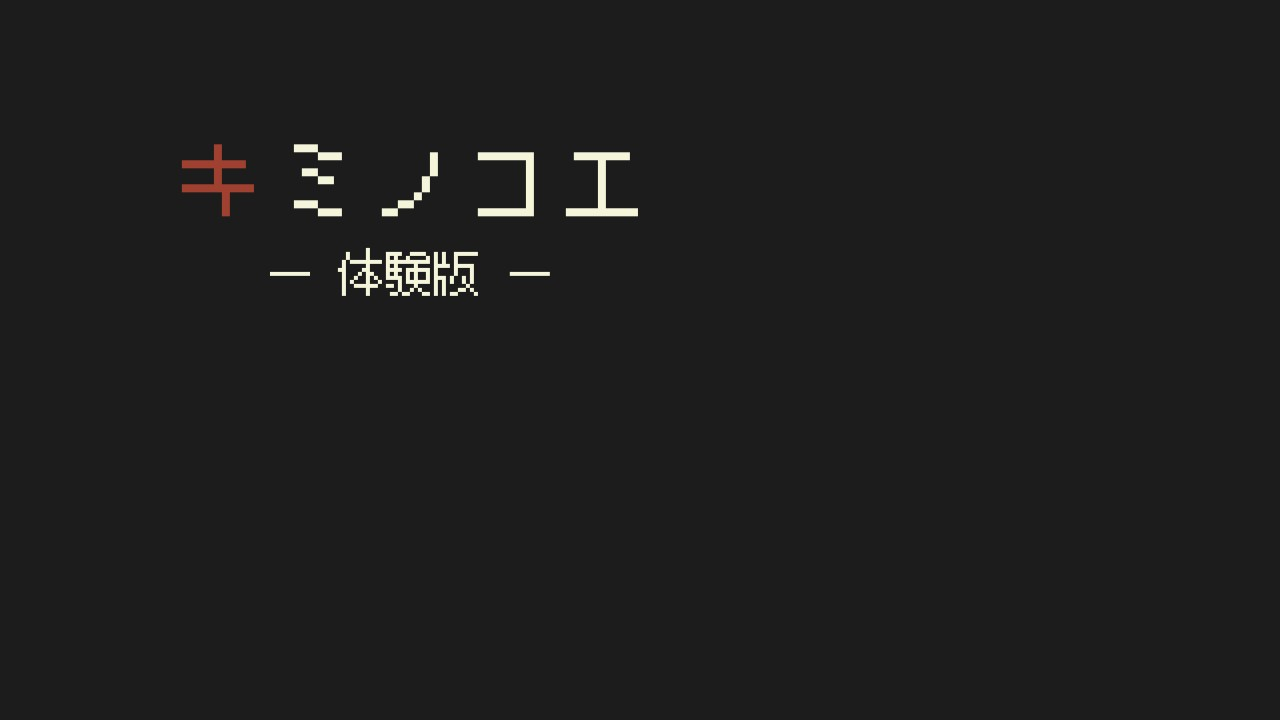
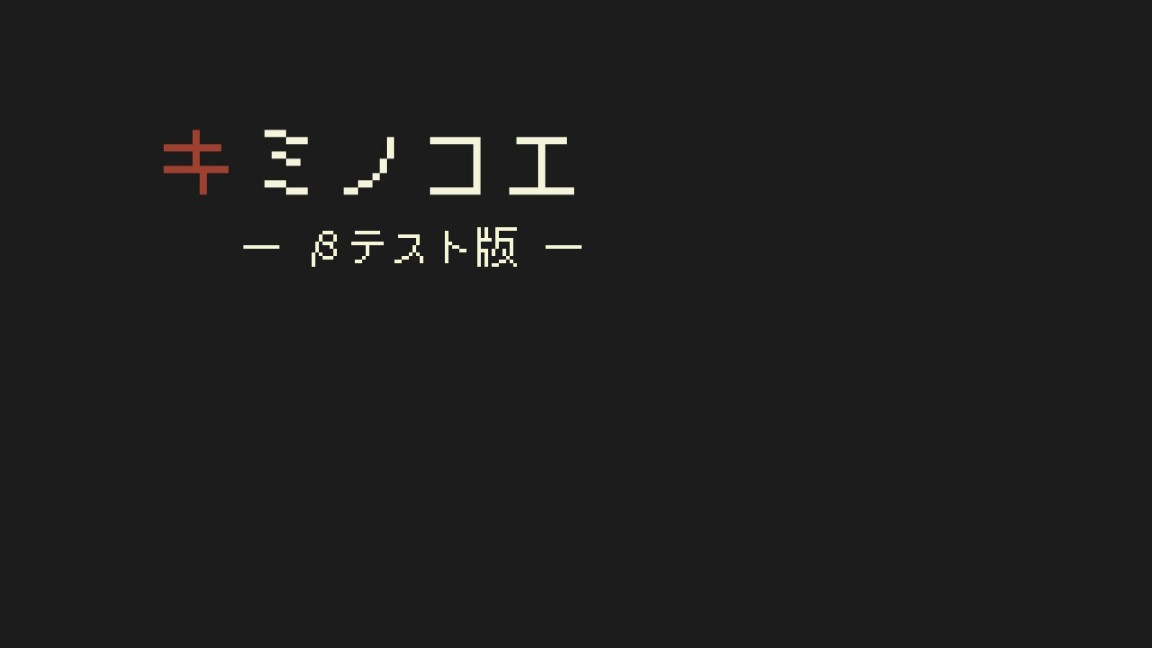
📝 正式リリース版に向けたトロフィー仕様のドキュメント化

Changed region(s): [[0.2188, 0.3395, 0.5, 0.4321]]

diff --git a/documents/dev/trophy_system.md b/documents/dev/trophy_system.md
@@ -67,16 +67,22 @@
 | ふたこじぞう | 全地蔵発見（北・東・南・西の4箇所） | 「古くから村を守ってきた存在」 | 「村の至る所に...」 | コレクション要素 |
 | 焚き場 | 西→南訪問 | 「忘れ去られたしきたり」 | 「禁じられた道の先に...」 | JMR編への伏線 |
 | 童歌 | 童歌をスキップせずに最後まで聴く | 「祈りは忘れられ、調べだけが継ぐ」 | 「立ち止まって耳を傾けて」 | 早歩き中は取得不可 |
-| 地蔵焚の旅人 | 下記条件をすべて満たした状態で童歌を聴く | 「体験版でそこまでする？」 | 「すべてを巡り、耳を澄ませたとき」 | **体験版限定・やり込み** |
+| 地蔵焚の旅人 / **転生する勇気** | 下記参照（同一スロット・排他） | 「体験版でそこまでする？」 / 「記憶を消してプレイしたいと言われてみたい」 | 「すべてを巡り、耳を澄ませたとき」 / 「すべてを忘れて、もう一度」 | **同一スロット。どちらか一方のみ取得可** |
 | 調査隊結成？ | 12日お寺ルート（opt_1012_d_temple）完了（選択肢はふたこじぞう+焚き場取得で出現） | 「オカルト好きなお寺さん」 | （未定） | **製品版のみ** |
 | また来よう | 通常エンド完了 | 「イロの後ろの人影は……だれ？」 | （未定） | **製品版のみ** |
 | キミノコエ | トゥルーエンド到達（スタッフロール完了時に付与） | 「喉が……のど飴を常備しないと」 | 「すべてを思い出したとき」 | **製品版のみ** |
 | イロの想い | お節介編クリア | 「実は計画的な妹」 | 「真実を知ったとき」 | **製品版のみ** |
 | 13年越しのおめでとう | JMS編クリア | 「最後までプレーしてくれてありがとうございました！」 | （未定） | **製品版のみ** |
 
-**製品版 合計: 10個（体験版は5個 ※調査隊結成？・また来よう・キミノコエ・イロの想い・13年越しのおめでとう を除く）**
+**製品版 合計: 10個（βテスト版/製品版では「地蔵焚の旅人」が「転生する勇気」に置き換わる。枠数は変わらず）**
 
-#### 「地蔵焚の旅人」取得条件（体験版限定）
+#### 「地蔵焚の旅人」/ 「転生する勇気」 — 同一スロット仕様
+
+どちらか一方のみ取得可能（`demo_complete` スロット）。先に取得した方が確定し、もう一方は発生しない。
+
+---
+
+##### 「地蔵焚の旅人」取得条件（**体験版のみ。βテスト版以降は取得不可**）
 
 以下をすべて満たした状態で、童歌をスキップせずに最後まで聴く：
 
@@ -85,6 +91,20 @@
 3. **シークレットトロフィー4個全取得**: 秘密基地、ふたこじぞう、焚き場、童歌
 
 **判定タイミング**: 童歌を聴いた瞬間のみ（ED到達時には判定しない）
+
+---
+
+##### 「転生する勇気」取得条件（βテスト版・製品版）
+
+「データをリセット」実行時に以下を**両方**満たしている場合、リセット後の次回起動時に付与される：
+
+1. **「キミノコエ」トロフィー取得済み**
+2. **「地蔵焚の旅人」未取得**
+
+**仕組み**:
+- 条件を満たした状態でリセットすると、`user://pending_trophy.cfg` に待機フラグを書き込む
+- 次回ゲーム起動時（`_load_trophy_data()` 完了後）にフラグを検出して付与し、フラグを削除する
+- 次のデータリセット時に pending_trophy.cfg も削除されるため、リセットを繰り返してもループしない
 
 ------
 
